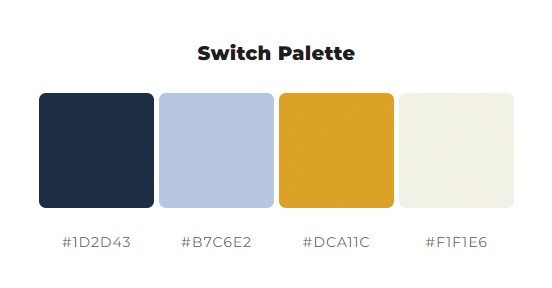
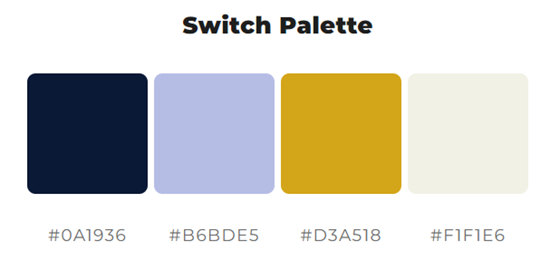
Docs: update colours in surface plane

diff --git a/README.md b/README.md
@@ -338,11 +338,11 @@ For everything else, I'm using Open Sans. It's incredibly versatile, and it look
 
 <h4>Colours</h4>
 
-![synaptic_surge_colour_swatch](assets/images/readme/uxd/surface/synaptic_surge_colour_swatch.png)
+![synaptic_surge_colour_swatch](assets/images/readme/uxd/surface/synaptic_surge_colour_swatch.png
 
-- #1D2D43 (Dark Navy Blue): I could use this as my primary color. It's great for major elements like the header, footer, or primary background color. I can also use it for important text.
-- #B7C6E2 (Light Pastel Blue): This light and airy color could serve as a background color for certain sections to provide contrast with the darker blue. It's also a good color for secondary text, borders, or backgrounds of cards or insets where I want the content to stand out.
-- #DCA11C (Dark Goldenrod): This is a strong, vibrant color that can serve as a highlight or accent color. I can use it for calls to action, buttons, or other elements I want to draw attention to. As it's quite a rich color, using it sparingly can make my design pop without being overpowering.
+- #0A1936 (Dark Navy Blue): I could use this as my primary color. It's great for major elements like the header, footer, or primary background color. I can also use it for important text.
+- #B6BDE5 (Light Pastel Blue): This light and airy color could serve as a background color for certain sections to provide contrast with the darker blue. It's also a good color for secondary text, borders, or backgrounds of cards or insets where I want the content to stand out.
+- #D3A518 (Dark Goldenrod): This is a strong, vibrant color that can serve as a highlight or accent color. I can use it for calls to action, buttons, or other elements I want to draw attention to. As it's quite a rich color, using it sparingly can make my design pop without being overpowering.
 - #F1F1E6 (Very Pale Yellow): This very light color is excellent for backgrounds, especially if I want a slightly warmer tone than pure white. I can also use it for elements like tooltips, drop-down menus, or modals where I want a contrast with the main page.
 
 </details>
